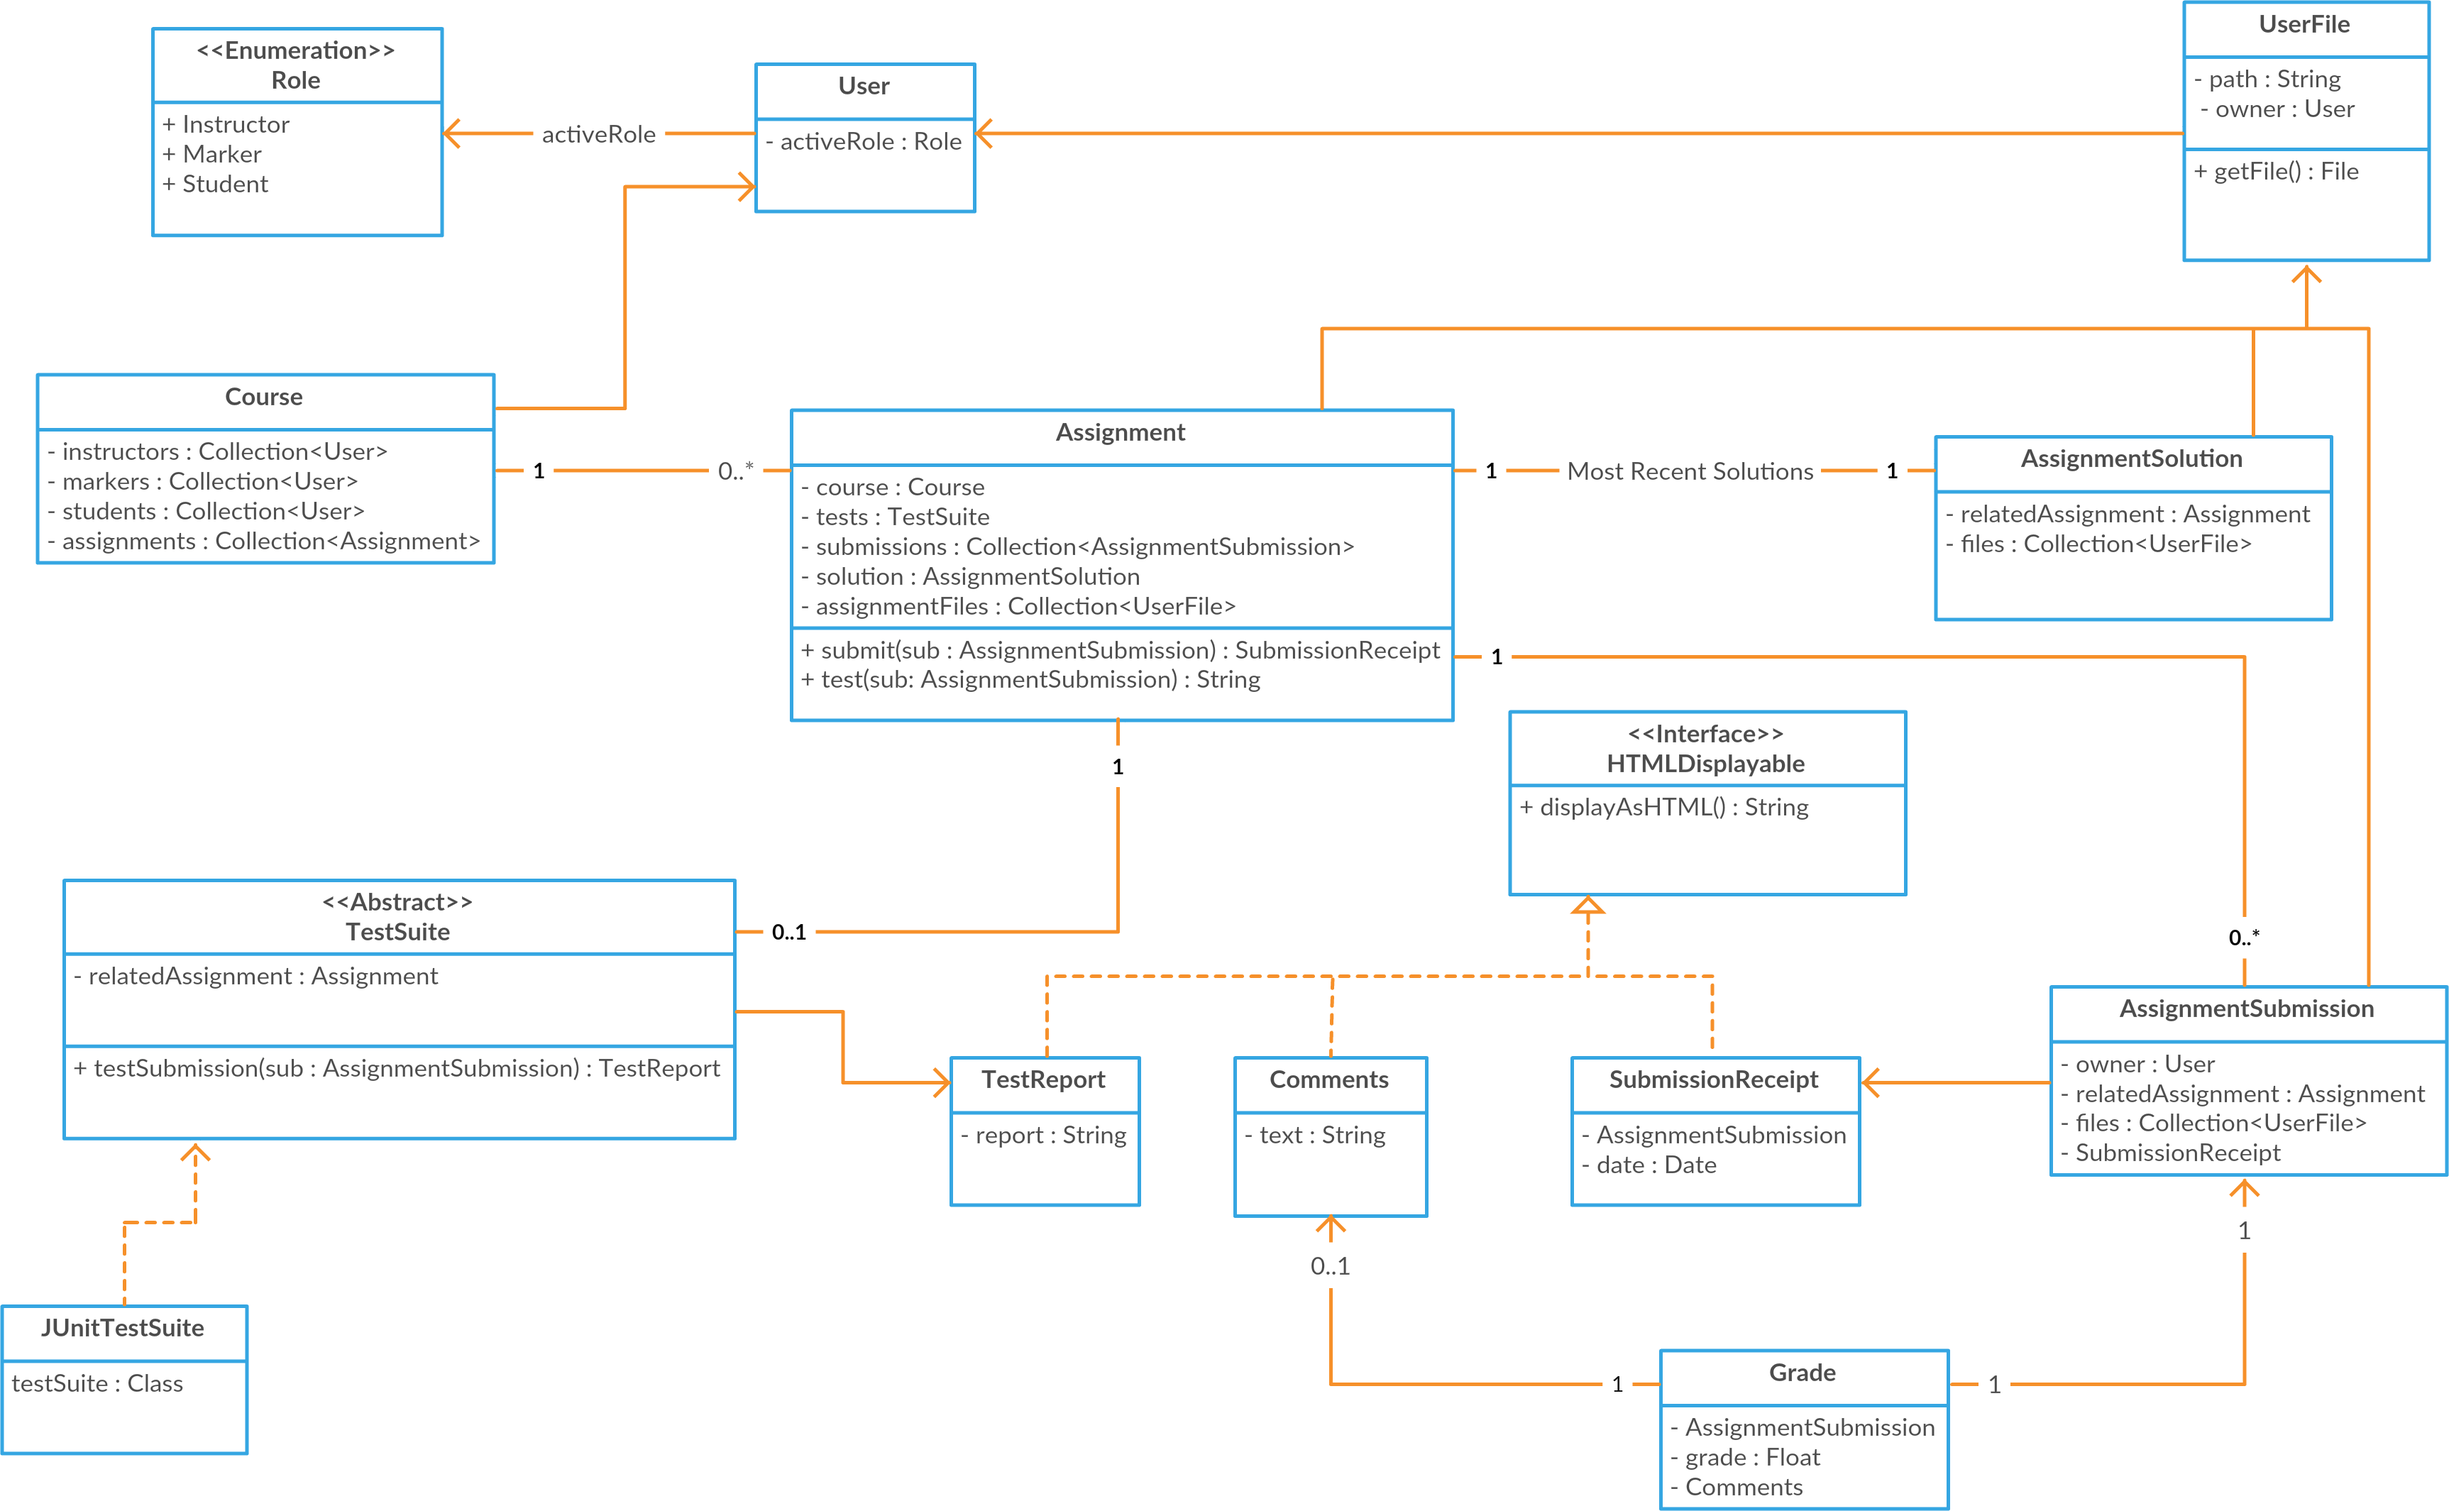
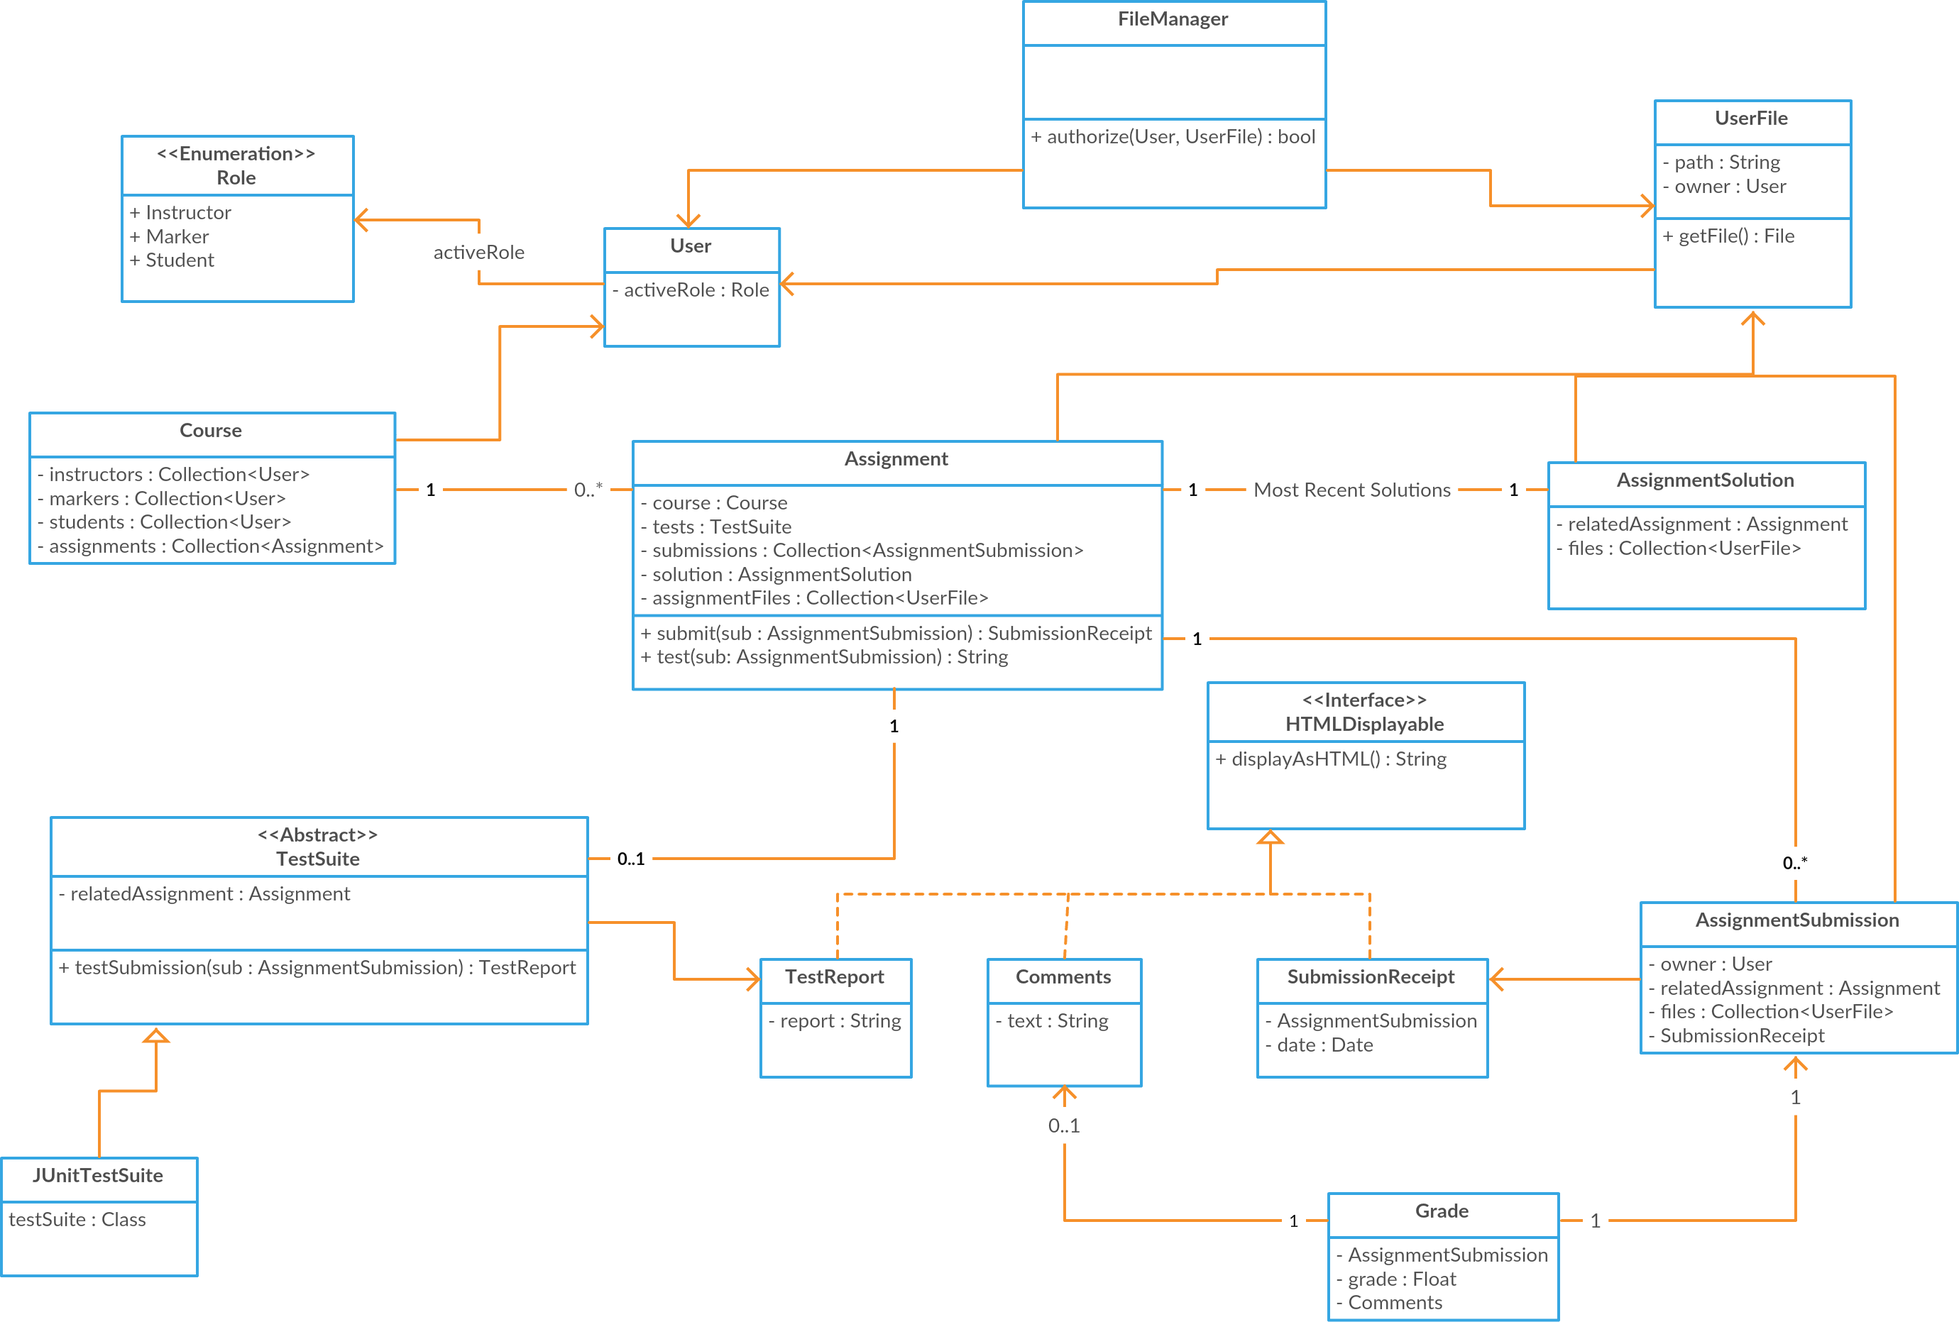
Updates class diagrams, sequence diagrams, package diagram

diff --git a/Documentation/SequenceDiagrams.html b/Documentation/SequenceDiagrams.html
@@ -10,13 +10,13 @@
     <div class="UseCase">
         <b>UC16.</b> <br>
 		<b>Name:</b> Registered user compiles through the cloud.<br>
-        <img src="sequencediagram/Command line application.png" class="SequenceDiagram">
+        <img src="Images/CompileSequenceDiagram.png" class="SequenceDiagram" style="width:80%;">
     </div>
 
      <div class="UseCase">
         <b>UC19.</b> <br>
         <b>Name:</b> Registered user execute command line application to test written code.<br>
-        <img src="sequencediagram/Command line application.png" class="SequenceDiagram">
+        <img src="Images/ExecuteSequenceDiagram.png" class="SequenceDiagram" style="width:80%;">
 
         <div class="horizontalLine"></div>
    </div>

diff --git a/Documentation/Architecture/SoftwareArchitecture.html b/Documentation/Architecture/SoftwareArchitecture.html
@@ -13,6 +13,9 @@
         <li>To maintain an open connection between the client web browser and possible console applications running on the server we will launch all processes in new threads and store them in a singelton process manager called Console. These process threads will persist between HTTP requests and can be interacted with using polling AJAX requests.</li>
     </ul>
 
+    <h3>Class Diagram for Client/Server</h3>
+    <img src="ClassDiagram_3.png" class="ClassDiagram" style="width:50%;">
+
     <h3>Class Diagram for Assignment System</h3>
     <img src="ClassDiagram_1.png" class="ClassDiagram">
 
